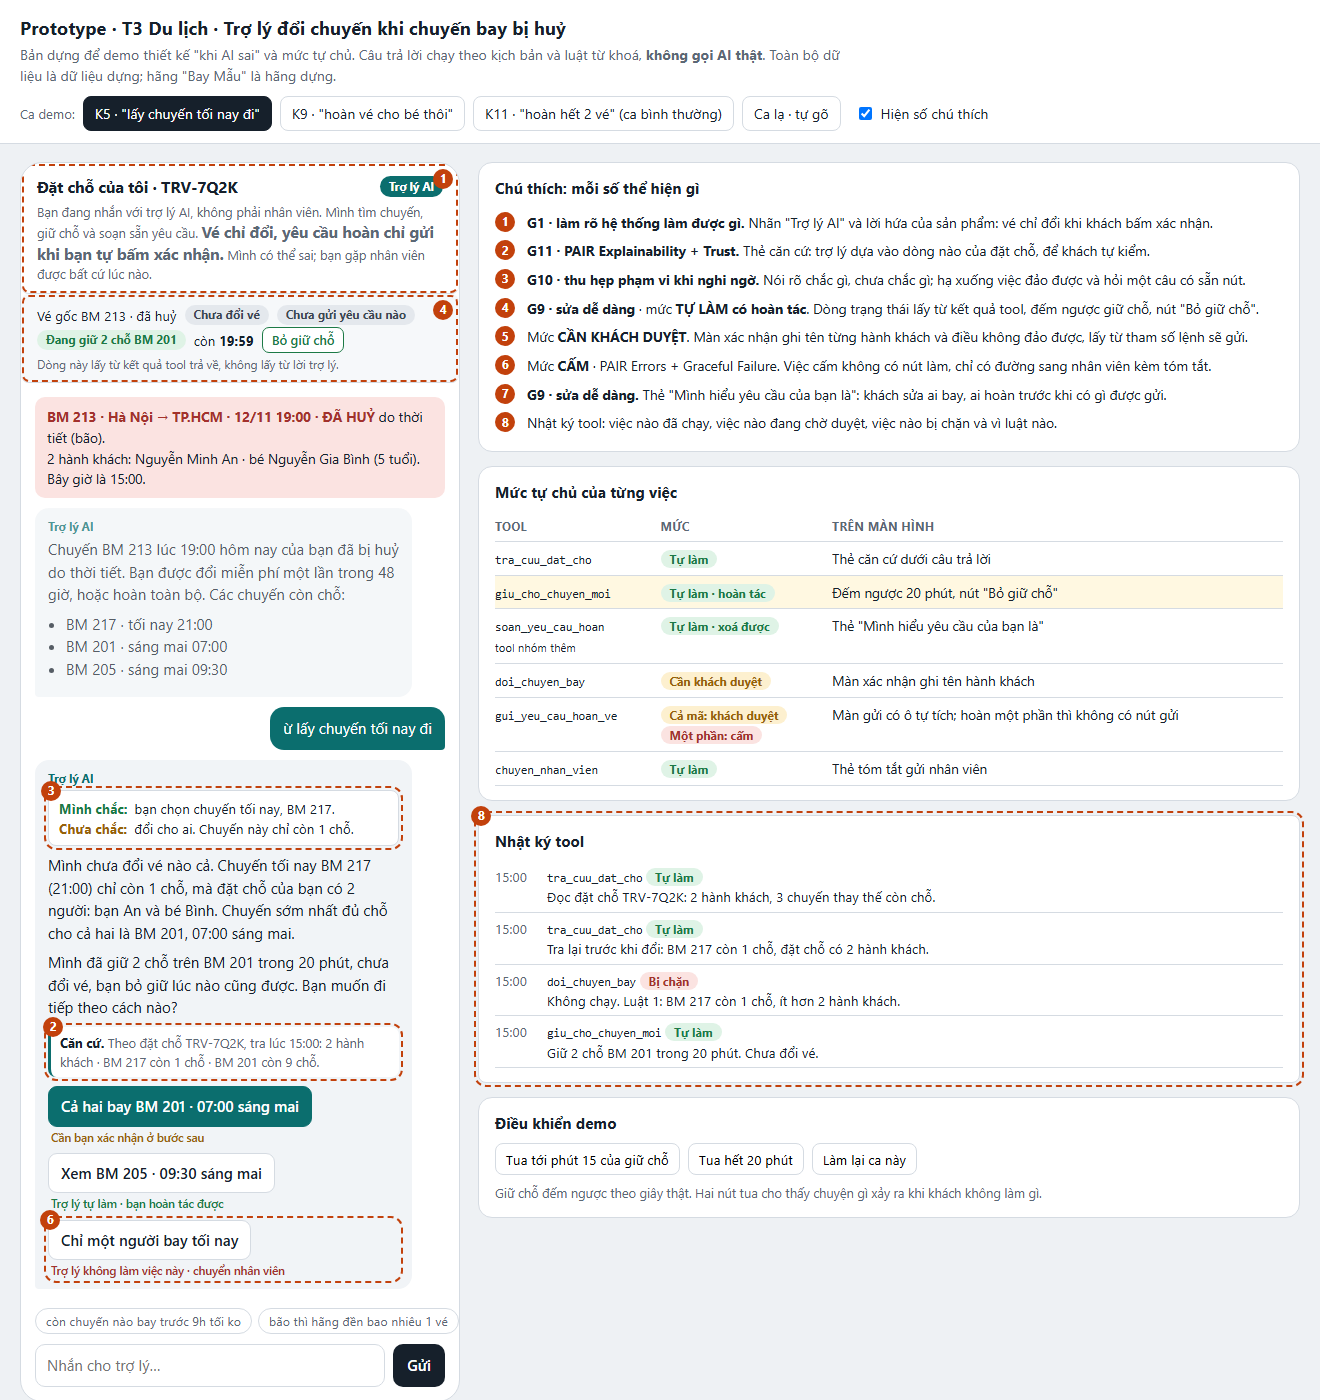
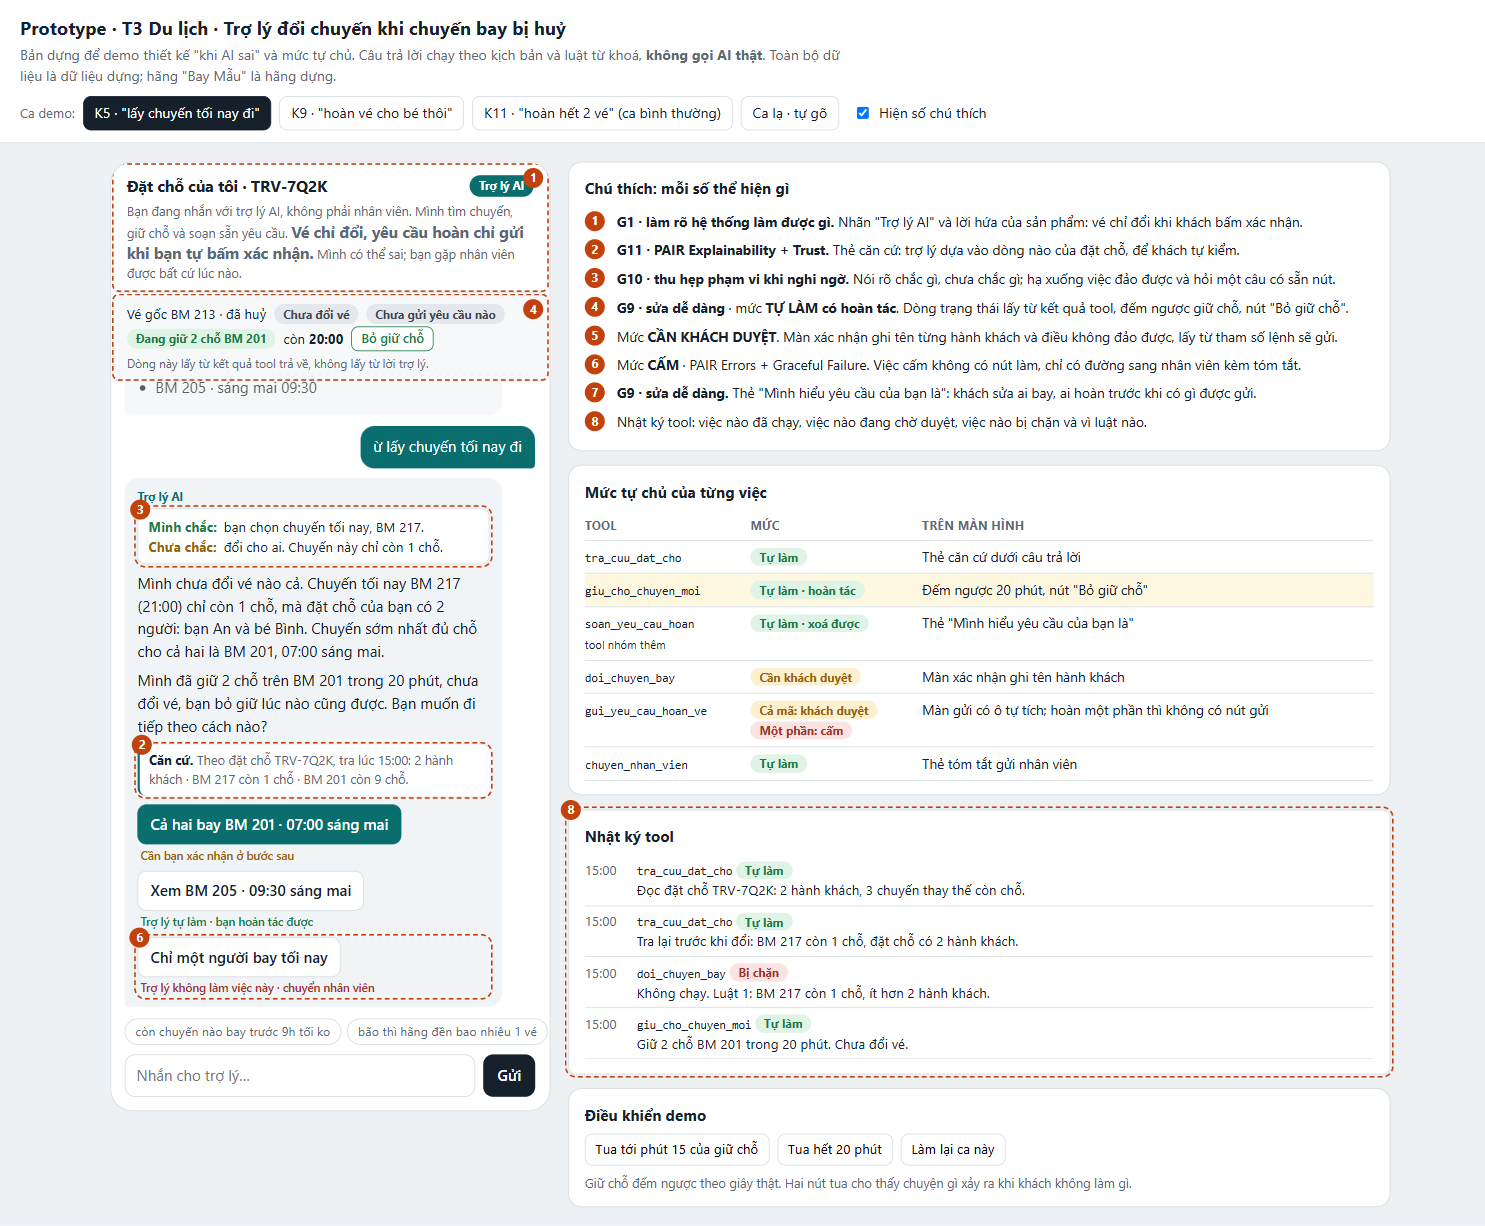
Keep only required submission artifacts and curate Lam scenario content

diff --git a/prototype/index.html b/prototype/index.html
@@ -254,7 +254,7 @@ function renderStatus(){
   else if(S.ticket === 'changed') h += `<div class="ln"><span class="pill p-neutral">Đã đổi vé</span><span>cả 2 người bay ${F[S.changedTo].code} · ${F[S.changedTo].when}</span></div>`;
   else h += `<div class="ln"><span>Vé gốc BM 213 · đã huỷ</span><span class="pill p-neutral">Chưa đổi vé</span><span class="pill p-neutral">${S.refund === 'draft' ? 'Yêu cầu hoàn: bản nháp, chưa gửi' : 'Chưa gửi yêu cầu nào'}</span></div>`;
   if(S.hold) h += `<div class="ln"><span class="pill p-auto">Đang giữ ${S.hold.seats} chỗ ${F[S.hold.f].code}</span><span>còn <span class="timer" id="left">${mmss(S.hold.left)}</span></span><button class="undo" data-a="release">Bỏ giữ chỗ</button></div>`;
-  if(S.handoff) h += `<div class="ln"><span class="pill p-auto">Đã chuyển nhân viên</span><span>dự kiến nhận trong khoảng 5 phút</span></div>`;
+  if(S.handoff) h += `<div class="ln"><span class="pill p-auto">Đã chuyển nhân viên</span><span>chưa xác nhận tiếp nhận</span></div>`;
   h += `<div class="cap">Dòng này lấy từ kết quả tool trả về, không lấy từ lời trợ lý.</div>`;
   $('#status').innerHTML = h;
 }
@@ -306,7 +306,7 @@ async function handoff(need, lead){
   log('chuyen_nhan_vien', 'auto', `Chuyển cuộc trò chuyện kèm tóm tắt: ${need}.`);
   const sum = summary(need);
   $('#staffSum').innerHTML = sum; $('#staffCard').style.display = 'block';
-  await addAI(`<p>${lead}</p><p>Mình đã chuyển cuộc trò chuyện cho nhân viên kèm tóm tắt dưới đây, bạn không phải kể lại. Nhân viên sẽ nhận trong khoảng 5 phút.${S.hold ? ` ${S.hold.seats} chỗ ${F[S.hold.f].code} vẫn đang được giữ.` : ''}</p>
+  await addAI(`<p>${lead}</p><p>Mình đã chuyển cuộc trò chuyện cho nhân viên kèm tóm tắt dưới đây, bạn không phải kể lại. Hồ sơ đã gửi; chưa xác nhận nhân viên tiếp nhận.${S.hold ? ` ${S.hold.seats} chỗ ${F[S.hold.f].code} vẫn đang được giữ.` : ''}</p>
     <div class="sum" data-n="6">${sum}</div>` + choices(btn('Quay lại trợ lý', 'backFromStaff', '', 'safe')));
 }
 const lockedMsg = () => S.refund === 'sent'
@@ -361,7 +361,7 @@ function confirmOpen(k){
       <tr><td>Hành khách được đổi</td><td><b>Nguyễn Minh An</b><br><b>Nguyễn Gia Bình</b> (5 tuổi)</td></tr>
       <tr><td>Phí</td><td>0 đ · dùng lần đổi miễn phí duy nhất</td></tr>
     </table>
-    <div class="warn">Đổi rồi thì không đổi lại được trong ứng dụng.</div>
+    <div class="warn">Đổi rồi sẽ dùng lần miễn phí duy nhất; khó đảo lại.</div>
     <div class="src">Nội dung trên lấy từ lệnh sẽ gửi: <code>doi_chuyen_bay(TRV-7Q2K → ${f.code}, 2 hành khách)</code>, không lấy từ lời trợ lý.</div>
     <div class="acts">
       <button class="btn pri" data-a="confirmDo" data-v="${k}">Xác nhận đổi cho 2 người</button>
@@ -395,7 +395,7 @@ async function refundReply(intent){
   if(!fly.length){
     log('soan_yeu_cau_hoan', 'auto', 'Soạn bản nháp hoàn cả mã TRV-7Q2K (2 vé). Chưa gửi.');
     return addAI(`<p>Mình hiểu là: hoàn cả 2 vé. Mình đã soạn sẵn yêu cầu, chưa gửi gì cả.</p>` + card +
-      `<p>Gửi rồi thì không huỷ được. Tiền về phương thức thanh toán ban đầu, có thể mất tới 90 ngày. Bạn xem lại rồi tự bấm gửi nhé.</p>
+      `<p>Gửi rồi thì không huỷ được. Phương thức nhận và thời gian hoàn chưa được xác minh cho vé này. Bạn xem lại rồi tự bấm gửi nhé.</p>
        <div class="warn">Hoàn vé: gửi rồi không huỷ được.</div>` +
       choices(btn('Xem lại và gửi yêu cầu hoàn 2 vé', 'refundOpen', '', 'appr', 'pri'), btn('Xoá bản nháp', 'later', '', 'safe'),
         btn('Tôi muốn đổi chuyến thay vì hoàn', 'list', '', 'safe')));
@@ -405,8 +405,8 @@ async function refundReply(intent){
   const lone = fly[0].id === 'binh';
   await addAI(`<p>Mình hiểu là: hoàn vé của ${ref[0].short}, còn ${fly[0].short} vẫn bay. Mình chưa gửi yêu cầu nào. Có hai điều bạn cần biết trước:</p>` + card +
     `<ol><li>Yêu cầu hoàn trong chat này áp dụng cho cả mã TRV-7Q2K, tức cả 2 vé. Mình không tách riêng một vé được, nên mình sẽ không gửi.</li>
-     <li>Yêu cầu hoàn gửi rồi thì không huỷ được. Tiền về phương thức thanh toán ban đầu, có thể mất tới 90 ngày.</li></ol>
-     <p>Nhân viên tách được từng vé. Mình chuyển bạn sang nhân viên kèm tóm tắt này nhé? ${lone
+     <li>Yêu cầu hoàn gửi rồi thì không huỷ được. Phương thức nhận và thời gian hoàn chưa được xác minh cho vé này.</li></ol>
+     <p>Nhân viên sẽ kiểm tra khả năng xử lý riêng từng vé. Mình chuyển bạn sang nhân viên kèm tóm tắt này nhé? ${lone
         ? 'Bé Bình 5 tuổi bay một mình cũng là việc cần nhân viên sắp xếp.'
         : 'Chuyến BM 213 đã huỷ nên vé của bạn cũng cần đổi; trong lúc chờ mình có thể giữ 1 chỗ cho bạn trên chuyến bạn chọn.'}</p>
      <div class="warn">Hoàn vé: gửi rồi không huỷ được.</div>` +
@@ -435,7 +435,7 @@ function refundOpen(){
     <table>
       <tr><td>Hoàn</td><td><b>2 vé</b>: Nguyễn Minh An, Nguyễn Gia Bình</td></tr>
       <tr><td>Đặt chỗ</td><td>TRV-7Q2K · BM 213 (đã huỷ)</td></tr>
-      <tr><td>Tiền về</td><td>Phương thức thanh toán ban đầu, có thể mất tới 90 ngày</td></tr>
+      <tr><td>Tiền về</td><td>Chưa xác minh phương thức nhận và thời gian hoàn</td></tr>
       <tr><td>Sau khi gửi</td><td>Mất quyền đổi chuyến miễn phí; chỗ đang giữ được nhả</td></tr>
     </table>
     <div class="warn">Yêu cầu hoàn gửi rồi thì không huỷ được.</div>
@@ -452,7 +452,7 @@ async function refundDo(){
   dropHold('đã gửi yêu cầu hoàn');
   S.refund = 'sent';
   log('gui_yeu_cau_hoan_ve', 'done', 'Đã gửi yêu cầu hoàn cả mã TRV-7Q2K (2 vé). Không huỷ được.');
-  await addAI(`<p>Đã gửi yêu cầu hoàn 2 vé lúc ${clock()}. Yêu cầu này không huỷ được. Tiền về phương thức thanh toán ban đầu, có thể mất tới 90 ngày.</p>` +
+  await addAI(`<p>Đã gửi yêu cầu hoàn 2 vé lúc ${clock()}. Yêu cầu này không huỷ được. Phương thức nhận và thời gian hoàn chưa được xác minh cho vé này.</p>` +
     choices(btn('Tôi gửi nhầm, gặp nhân viên', 'staff', 'Khách báo gửi nhầm yêu cầu hoàn', 'staff', '', 6)));
 }
 
